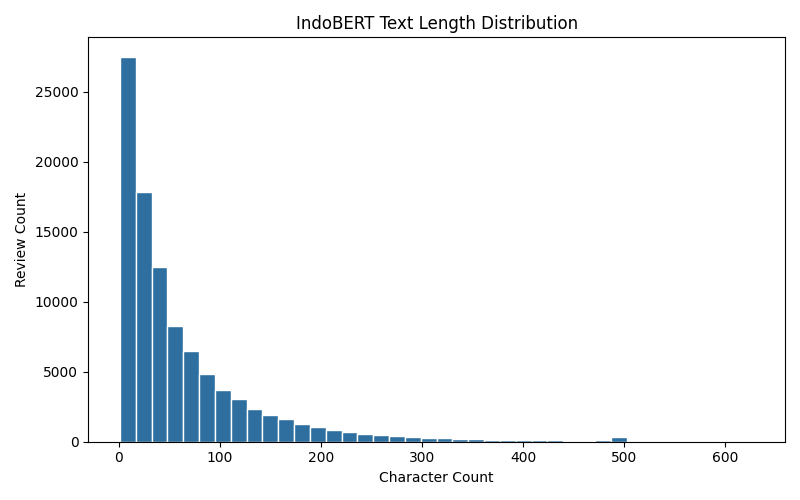
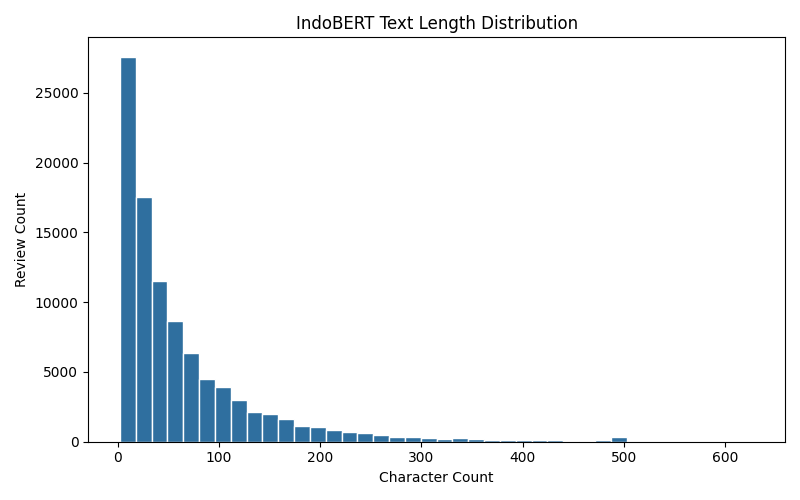
data: regenerate model datasets from canonical processed data

diff --git a/ml-service/scripts/prepare_indobert_dataset.py b/ml-service/scripts/prepare_indobert_dataset.py
@@ -21,7 +21,7 @@ LABEL_MAPPING = {
     "Neutral": 1,
     "Positive": 2,
 }
-DEFAULT_INPUT = PROJECT_ROOT / "datasets" / "processed" / "reviews_final.csv"
+DEFAULT_INPUT = PROJECT_ROOT / "datasets" / "processed" / "dataset_spotify_processed.csv"
 DEFAULT_OUTPUT_DIR = PROJECT_ROOT / "datasets" / "processed" / "indobert"
 DEFAULT_SUMMARY_OUTPUT = Path(
     PROJECT_ROOT / "datasets" / "outputs" / "eda" / "03_indobert" / "indobert_dataset_summary.json"

diff --git a/docs/methodology/data-artifact-lineage-audit.md b/docs/methodology/data-artifact-lineage-audit.md
@@ -6,7 +6,9 @@ MS-15B promotion update: 2026-06-21
 
 MS-15C preprocessing defaults update: 2026-06-21
 
-Scope: read-only inventory and lineage analysis. No dataset, script, notebook, service, frontend, Docker, model, or environment file was modified.
+MS-15D model-dataset regeneration update: 2026-06-21
+
+Original MS-15A scope: read-only inventory and lineage analysis. Later sections record the scoped MS-15B through MS-15D follow-up changes.
 
 ## 1. Executive Summary
 
@@ -19,9 +21,13 @@ MS-15B promoted `ml-service/quality_audit/reviews_final_quality_filtered.csv` in
 
 MS-15C made the preprocessing scripts reproduce those canonical files from project-root-safe defaults. `preprocess_indobert.py` writes a clearly named valid-row stage file and the first-stage noise report; `preprocess_svm.py` owns final canonical CSV/JSON output and merges both noise stages with explicit provenance. Metrics, figures, and summaries are now opt-in secondary diagnostics.
 
-The current `datasets/processed/reviews_final.csv` is not a clean source of truth despite its name. Targeted samples confirm it still contains an emoji-only row and a Morse-like row. The Morse-like row also appears in `datasets/processed/indobert/test.csv`, proving that the current IndoBERT splits were generated from the unfiltered `97,782`-row branch. `datasets/outputs/eda/03_indobert/indobert_dataset_summary.json` confirms `preprocessing_status_rows_removed: 0` and `valid_rows: 97,782`.
+The current `datasets/processed/reviews_final.csv` is not a clean source of truth despite its name. Targeted samples confirm it still contains an emoji-only row and a Morse-like row. Before MS-15D, the Morse-like row also appeared in `datasets/processed/indobert/test.csv`, proving that the old IndoBERT splits were generated from the unfiltered `97,782`-row branch.
 
-No legacy files were deleted. MS-15D should migrate dataset preparation to canonical input and regenerate model-specific datasets before any archive/removal milestone.
+MS-15D changed the IndoBERT preparation default to `dataset_spotify_processed.csv` and regenerated its train, validation, test, label mapping, EDA 03 dataset summaries, and EDA 03 figures from all `96,534` canonical rows. Full validation found no split overlap, empty text, invalid labels, non-valid preprocessing metadata, or rows rejected by the shared Morse/symbol/digit/repeated-garbage quality detector.
+
+SVM regeneration was not safe within the current preparation contract. The canonical dataset has `text_svm` but lacks `aspect_label` and `aspect_label_confidence`; the active refined label source still contains all `97,782` old-branch rows, including `1,248` IDs excluded from canonical data. The current `16,983`-row SVM dataset contains `6` noncanonical IDs. Status: `NEEDS VERIFICATION` until weak aspect labels are regenerated or otherwise verified against canonical input without changing the labeling scheme.
+
+No legacy files were deleted. No model was trained.
 
 ### Decision Summary
 
@@ -29,8 +35,8 @@ No legacy files were deleted. MS-15D should migrate dataset preparation to canon
 | --- | --- | --- |
 | Canonical clean processed dataset | `datasets/processed/dataset_spotify_processed.{csv,json}` sourced from `ml-service/quality_audit/reviews_final_quality_filtered.csv` | Confirmed by MS-15B validation |
 | Misleading noisy `final` file | `datasets/processed/reviews_final.csv` | Confirmed by targeted samples |
-| Current IndoBERT preparation input | `datasets/processed/reviews_final.csv` -> `datasets/processed/indobert/{train,validation,test}.csv` | Confirmed by defaults and generated summary |
-| Current SVM preparation input | `datasets/processed/reviews_with_aspect_labels_refined.csv` -> `datasets/processed/svm/svm_aspect_dataset.csv` | Confirmed by defaults |
+| Current IndoBERT preparation input | `datasets/processed/dataset_spotify_processed.csv` -> `datasets/processed/indobert/{train,validation,test}.csv` | Confirmed by MS-15D default, regeneration, and full split validation |
+| Current SVM preparation input | `datasets/processed/reviews_with_aspect_labels_refined.csv` -> `datasets/processed/svm/svm_aspect_dataset.csv` | `NEEDS VERIFICATION`; active input still belongs to the old aspect-labeled branch |
 | Backend review sample source | Random: `reviews_final.csv`; latest negative: refined aspect labels first | Confirmed by service code |
 | Quality-filtered branch consumer | No committed consumer of the three `*_quality_filtered.csv` files | Confirmed by repository search |
 | Frontend data source | API Gateway only; indirect dependency on backend artifacts | Confirmed by frontend service modules |
@@ -41,16 +47,16 @@ The word `final` currently means several different things:
 
 - `reviews_final.csv` means a compact preprocessing output, not a verified noise-free canonical dataset.
 - `reviews_with_aspect_labels_refined.csv` means refined weak aspect labels, but it inherits rows from `reviews_final.csv`.
-- IndoBERT `run_3_weighted_loss_lr_1e-5` is the selected historical experiment, but its current split lineage still points to the unfiltered processed branch.
+- IndoBERT `run_3_weighted_loss_lr_1e-5` is the selected historical experiment, but its recorded training lineage still points to the pre-MS-15D unfiltered splits.
 - SVM `merged_5class` is the selected taxonomy/model, but its preparation source also descends from the unfiltered branch.
 - AHP/Fuzzy AHP files with `sample_development` are pipeline-validation outputs, not final expert-judgement results.
 
 At MS-15A, the quality-filtering implementation was newer than the active processed-data contract and only produced audit outputs under `ml-service/quality_audit/`. MS-15B promoted the data; MS-15C aligned preprocessing defaults. Remaining drift is downstream:
 
-- split-preparation scripts and notebooks still name `reviews_final.csv` as the main processed input;
+- SVM aspect-label and preparation lineage still depends on `reviews_with_aspect_labels_refined.csv` from the old branch;
 - `review-service` serves samples from the noisy file;
 - backend preprocessing/sentiment summaries report the pre-filter `97,782` rows;
-- current IndoBERT splits include rows identified by the audit as noise;
+- IndoBERT splits are now canonical, but historical trained-model metrics still describe pre-MS-15D data;
 - frontend tables ask review sample APIs for fields that the API schema does not return.
 
 ## 3. Dataset Artifact Inventory
@@ -97,14 +103,14 @@ Rows below group files only when every named file has the same lineage classific
 | `datasets/processed/reviews_preprocessed_indobert.csv` | processed intermediate | Older IndoBERT text-cleaning output | Unfiltered legacy branch; sampled audit-dropped IDs remain present | W `preprocess_indobert.py`; R `preprocess_svm.py`; notebook 02 | LEGACY |
 | `datasets/processed/reviews_preprocessed_indobert.json` | processed duplicate | Large JSON serialization of an older IndoBERT preprocessing result | No committed reader found; duplicates CSV-era content and may contain the same noise | NONE | ARCHIVE LATER |
 | `datasets/processed/reviews_preprocessed_svm.csv` | processed intermediate | Older SVM text-cleaning output | Unfiltered legacy branch; emoji/noise rows remain | W `preprocess_svm.py`; no independent downstream reader found outside notebook lineage | LEGACY |
-| `datasets/processed/reviews_final.csv` | processed output | Compact combined sentiment preprocessing output | Misleading name; confirmed emoji-only and Morse-like rows. No quality metadata columns | Historical W `preprocess_svm.py`; still R by `prepare_indobert_dataset.py`, `train_indobert.py` metadata, notebook 02, `review-service` | LEGACY; NOT SAFE TO DELETE |
+| `datasets/processed/reviews_final.csv` | processed output | Compact combined sentiment preprocessing output | Misleading name; confirmed emoji-only and Morse-like rows. No quality metadata columns | Historical W `preprocess_svm.py`; still R by `train_indobert.py` metadata, notebook 02, `review-service`; no longer the IndoBERT preparation default | LEGACY; NOT SAFE TO DELETE |
 | `datasets/processed/reviews_with_aspect_labels.csv` | processed output | Earlier weak aspect-label output | Derived from noisy `reviews_final.csv`; older than refined output | API fallback for latest negatives; no current writer command found | LEGACY; NOT SAFE TO DELETE |
-| `datasets/processed/reviews_with_aspect_labels_refined.csv` | processed output | Refined weak aspect labels and confidence | Active SVM preparation source, but inherits unfiltered upstream rows | W `label_aspects_by_keywords.py`; R `prepare_svm_aspect_dataset.py`; preferred API latest-negative source | NEEDS DECISION |
-| `datasets/processed/indobert/train.csv` | split | IndoBERT train split | Active derived split; generated from `97,782` unfiltered rows; a quality-audit-dropped ID is present | W `prepare_indobert_dataset.py`; R `train_indobert.py`, Colab notebooks | NEEDS DECISION |
-| `datasets/processed/indobert/validation.csv` | split | IndoBERT validation split | Active derived split; same unfiltered lineage | W `prepare_indobert_dataset.py`; R `train_indobert.py`, Colab notebooks | NEEDS DECISION |
-| `datasets/processed/indobert/test.csv` | split | IndoBERT test split | Active derived split; confirmed to contain the Morse-like ID `1b2b73e6-...` | W `prepare_indobert_dataset.py`; R `train_indobert.py`, Colab notebooks | NEEDS DECISION |
-| `datasets/processed/indobert/label_mapping.json` | split metadata | Sentiment label-to-ID mapping | Valid derived metadata; must be regenerated/versioned with new splits | W `prepare_indobert_dataset.py`; R training/Colab/export | KEEP |
-| `datasets/processed/svm/svm_aspect_dataset.csv` | processed model dataset | Filtered weak-label aspect dataset (`16,983` rows in current summary) | Active derived dataset from old refined labels; noise impact is inherited and needs regeneration | W `prepare_svm_aspect_dataset.py`; R `train_svm_aspect_classifier.py` | NEEDS DECISION |
+| `datasets/processed/reviews_with_aspect_labels_refined.csv` | processed output | Refined weak aspect labels and confidence | Active SVM preparation source, but inherits unfiltered upstream rows | W `label_aspects_by_keywords.py`; R `prepare_svm_aspect_dataset.py`; preferred API latest-negative source | NEEDS VERIFICATION |
+| `datasets/processed/indobert/train.csv` | split | IndoBERT train split (`67,573` rows) | Regenerated in MS-15D from canonical input; unique IDs, valid labels, and no shared-quality-filter rejection | W `prepare_indobert_dataset.py`; R `train_indobert.py`, Colab notebooks | CURRENT; REGENERATED MS-15D |
+| `datasets/processed/indobert/validation.csv` | split | IndoBERT validation split (`14,480` rows) | Regenerated in MS-15D from canonical input; disjoint from train/test | W `prepare_indobert_dataset.py`; R `train_indobert.py`, Colab notebooks | CURRENT; REGENERATED MS-15D |
+| `datasets/processed/indobert/test.csv` | split | IndoBERT test split (`14,481` rows) | Regenerated in MS-15D from canonical input; old Morse-like ID absent | W `prepare_indobert_dataset.py`; R `train_indobert.py`, Colab notebooks | CURRENT; REGENERATED MS-15D |
+| `datasets/processed/indobert/label_mapping.json` | split metadata | Sentiment label-to-ID mapping | Regenerated with the MS-15D splits: Negative `0`, Neutral `1`, Positive `2` | W `prepare_indobert_dataset.py`; R training/Colab/export | CURRENT; REGENERATED MS-15D |
+| `datasets/processed/svm/svm_aspect_dataset.csv` | processed model dataset | Filtered weak-label aspect dataset (`16,983` rows in current summary) | Not regenerated in MS-15D; old refined-label lineage remains and `6` IDs are not canonical | W `prepare_svm_aspect_dataset.py`; R `train_svm_aspect_classifier.py` | NEEDS VERIFICATION |
 
 ### 3.4 Quality-Audit Artifacts
 
@@ -151,7 +157,7 @@ Rows below group files only when every named file has the same lineage classific
 
 | Path(s) | Type | Stage and role | Canonicality / noise | References | Status |
 | --- | --- | --- | --- | --- | --- |
-| `datasets/outputs/eda/03_indobert/indobert_dataset_summary.json`<br>`datasets/outputs/eda/03_indobert/indobert_label_distribution.csv`<br>`datasets/outputs/eda/03_indobert/indobert_label_distribution.json`<br>`datasets/outputs/eda/03_indobert/indobert_split_distribution.csv`<br>`datasets/outputs/eda/03_indobert/indobert_split_distribution.json`<br>`datasets/outputs/eda/03_indobert/indobert_text_length_summary.json` | output / split metadata | Current split-generation summary | Confirms unfiltered `97,782`-row source and zero status filtering | W `prepare_indobert_dataset.py`; service availability/reporting | NEEDS DECISION |
+| `datasets/outputs/eda/03_indobert/indobert_dataset_summary.json`<br>`datasets/outputs/eda/03_indobert/indobert_label_distribution.csv`<br>`datasets/outputs/eda/03_indobert/indobert_label_distribution.json`<br>`datasets/outputs/eda/03_indobert/indobert_split_distribution.csv`<br>`datasets/outputs/eda/03_indobert/indobert_split_distribution.json`<br>`datasets/outputs/eda/03_indobert/indobert_text_length_summary.json` | output / split metadata | Current split-generation summary | Regenerated in MS-15D from all `96,534` canonical valid rows; no row removed during preparation | W `prepare_indobert_dataset.py`; service availability/reporting | CURRENT; REGENERATED MS-15D |
 | `datasets/outputs/eda/03_indobert/run_1_baseline/indobert_dataset_summary.json`<br>`datasets/outputs/eda/03_indobert/run_1_baseline/indobert_label_distribution.csv`<br>`datasets/outputs/eda/03_indobert/run_1_baseline/indobert_label_distribution.json`<br>`datasets/outputs/eda/03_indobert/run_1_baseline/indobert_split_distribution.csv`<br>`datasets/outputs/eda/03_indobert/run_1_baseline/indobert_split_distribution.json`<br>`datasets/outputs/eda/03_indobert/run_1_baseline/indobert_text_length_summary.json` | legacy evaluation metadata | Run 1 dataset snapshot | Historical duplicate; pre-quality-filter lineage | Notebook/report fallback | ARCHIVE LATER |
 | `datasets/outputs/eda/03_indobert/run_1_baseline/indobert_training_metrics.json`<br>`datasets/outputs/eda/03_indobert/run_1_baseline/indobert_classification_report.json`<br>`datasets/outputs/eda/03_indobert/run_1_baseline/indobert_confusion_matrix.csv`<br>`datasets/outputs/eda/03_indobert/run_1_baseline/indobert_test_predictions.csv` | evaluation output | Baseline experiment metrics and predictions | Thesis evidence; metrics inherit historical data quality | API sentiment/report fallback; evaluation docs | KEEP |
 | `datasets/outputs/eda/03_indobert/run_2_weighted_loss/indobert_class_weights.json`<br>`datasets/outputs/eda/03_indobert/run_2_weighted_loss/indobert_classification_report.json`<br>`datasets/outputs/eda/03_indobert/run_2_weighted_loss/indobert_confusion_matrix.csv`<br>`datasets/outputs/eda/03_indobert/run_2_weighted_loss/indobert_error_analysis.csv`<br>`datasets/outputs/eda/03_indobert/run_2_weighted_loss/indobert_run_comparison.csv`<br>`datasets/outputs/eda/03_indobert/run_2_weighted_loss/indobert_run_comparison.json`<br>`datasets/outputs/eda/03_indobert/run_2_weighted_loss/indobert_test_predictions.csv`<br>`datasets/outputs/eda/03_indobert/run_2_weighted_loss/indobert_training_history.csv`<br>`datasets/outputs/eda/03_indobert/run_2_weighted_loss/indobert_training_history.json`<br>`datasets/outputs/eda/03_indobert/run_2_weighted_loss/indobert_training_metrics.json` | evaluation output | Historical weighted-loss experiment | Thesis evidence; not selected; pre-quality-filter metrics | API sentiment/report, notebooks, consolidated evaluation | KEEP; ARCHIVE LATER only after thesis evidence policy |
@@ -162,7 +168,7 @@ Rows below group files only when every named file has the same lineage classific
 
 | Path(s) | Type | Stage and role | Canonicality / noise | References | Status |
 | --- | --- | --- | --- | --- | --- |
-| `datasets/outputs/eda/04_svm/svm_aspect_dataset_summary.json`<br>`datasets/outputs/eda/04_svm/svm_aspect_label_distribution.csv`<br>`datasets/outputs/eda/04_svm/svm_aspect_label_distribution.json`<br>`datasets/outputs/eda/04_svm/svm_aspect_by_sentiment_distribution.csv`<br>`datasets/outputs/eda/04_svm/svm_aspect_by_sentiment_distribution.json`<br>`datasets/outputs/eda/04_svm/svm_aspect_confidence_distribution.csv`<br>`datasets/outputs/eda/04_svm/svm_aspect_confidence_distribution.json` | output / dataset metadata | Current weak-label SVM dataset summary/distributions | Based on `97,782` unfiltered upstream rows before narrowing to `16,983` | W `prepare_svm_aspect_dataset.py`; API `aspect-service` | NEEDS DECISION |
+| `datasets/outputs/eda/04_svm/svm_aspect_dataset_summary.json`<br>`datasets/outputs/eda/04_svm/svm_aspect_label_distribution.csv`<br>`datasets/outputs/eda/04_svm/svm_aspect_label_distribution.json`<br>`datasets/outputs/eda/04_svm/svm_aspect_by_sentiment_distribution.csv`<br>`datasets/outputs/eda/04_svm/svm_aspect_by_sentiment_distribution.json`<br>`datasets/outputs/eda/04_svm/svm_aspect_confidence_distribution.csv`<br>`datasets/outputs/eda/04_svm/svm_aspect_confidence_distribution.json` | output / dataset metadata | Current weak-label SVM dataset summary/distributions | Not regenerated in MS-15D; based on `97,782` old-branch rows before narrowing to `16,983` | W `prepare_svm_aspect_dataset.py`; API `aspect-service` | NEEDS VERIFICATION |
 | `datasets/outputs/eda/04_svm/final_aspect_taxonomy_for_ahp.csv`<br>`datasets/outputs/eda/04_svm/final_aspect_taxonomy_for_ahp.json` | output / evaluation | Five-class merged taxonomy for AHP/Fuzzy AHP | Active criteria evidence; indirectly derived from old weak labels | API `aspect-service`, `report-service` | KEEP; REVALIDATE LATER |
 | `datasets/outputs/eda/04_svm/svm_artifact_manifest.json` | output metadata | SVM artifact manifest | Metadata only; no dataset rows | Service/docs | KEEP |
 | `datasets/outputs/eda/04_svm/svm_final_model_selection.csv`<br>`datasets/outputs/eda/04_svm/svm_final_model_selection.json`<br>`datasets/outputs/eda/04_svm/svm_scenario_comparison.csv`<br>`datasets/outputs/eda/04_svm/svm_scenario_comparison.json`<br>`datasets/outputs/eda/04_svm/svm_training_summary.json` | evaluation output | Original-vs-merged scenario comparison and selected model | Active reporting evidence; metrics should be superseded only after clean-data rerun | API `aspect-service`, `report-service`, evaluation frontend | KEEP |
@@ -192,9 +198,9 @@ Rows below group files only when every named file has the same lineage classific
 | `datasets/raw/reviews_raw_labeled.csv`, `data_acquisition_summary.json`, EDA 01 | `label_by_rating.py` | `relabel_by_keywords.py`; `review-service`; notebooks | Labeled raw dataset is the stable relabeling input. |
 | `reviews_relabelled.csv`, relabeling summaries | `relabel_by_keywords.py` | `preprocess_indobert.py`; notebook 02 | Relabeling is before quality filtering, so noise here is expected. |
 | `dataset_spotify_indobert_stage.csv` and canonical noise reports | `preprocess_indobert.py` | `preprocess_svm.py` | Root-safe MS-15C intermediate; contains only `96,575` IndoBERT-stage-valid rows. |
-| `dataset_spotify_processed.{csv,json}` and canonical noise reports | `preprocess_svm.py` | No migrated downstream reader yet | Root-safe canonical output defaults; valid and dropped rows remain separated. |
+| `dataset_spotify_processed.{csv,json}` and canonical noise reports | `preprocess_svm.py` | `prepare_indobert_dataset.py` reads canonical CSV after MS-15D | Root-safe canonical output defaults; valid and dropped rows remain separated. |
 | `reviews_with_aspect_labels_refined.csv` | `label_aspects_by_keywords.py` | `prepare_svm_aspect_dataset.py`; review API latest-negative endpoint | Active SVM/review dependency blocks deletion. |
-| `datasets/processed/indobert/*` and top-level EDA 03 summaries | `prepare_indobert_dataset.py` | `train_indobert.py`; `prepare_colab_indobert_bundle.py`; Colab notebooks | Current splits were built from unfiltered `reviews_final.csv`. |
+| `datasets/processed/indobert/*` and top-level EDA 03 summaries | `prepare_indobert_dataset.py` | `train_indobert.py`; `prepare_colab_indobert_bundle.py`; Colab notebooks | MS-15D regenerated current splits and summaries from canonical `dataset_spotify_processed.csv`. |
 | IndoBERT run folders | `train_indobert.py` and Colab export workflow | sentiment/report services; model evaluation; notebooks | Metrics are active reporting inputs but should be versioned as historical after a clean-data rerun. |
 | `datasets/processed/svm/svm_aspect_dataset.csv`, EDA 04 dataset summaries | `prepare_svm_aspect_dataset.py` | `train_svm_aspect_classifier.py` | Current SVM dataset descends from unfiltered refined weak labels. |
 | EDA 04 experiment outputs | `train_svm_aspect_classifier.py` | aspect/report services; consolidated evaluation | Selected merged model remains active but data lineage is pre-promotion. |
@@ -255,11 +261,11 @@ The frontend reads no CSV/JSON directly. It depends on API fields derived from a
 | `ml-service/notebooks/02_preprocessing.ipynb` | Documents only the old unfiltered processed chain. |
 | `docs/microservices/review-service-extraction.md` | Calls `reviews_final.csv` the preferred review source without quality caveat. |
 | `docs/microservices/api-contract.md` | Exposes `reviews_final` availability and a ranking `source_file`; does not define canonical processed lineage. |
-| `docs/ml/indobert-artifact-export.md` | Correctly says splits must be regenerated after quality filtering, but current split files remain old. |
+| `docs/ml/indobert-artifact-export.md` | Correctly treats existing run_3 model metrics as historical; MS-15D regenerated the input splits but did not retrain the model. |
 | `docs/microservices/repository-hygiene-audit.md` | Classifies `quality_audit/` as research evidence, not as a candidate source requiring promotion. |
 | `docs/microservices/architecture.md` | Defines artifact policy but not the canonical processed filename or lineage version. |
 
-No audited document currently declares a single canonical processed dataset and its derivation contract.
+At MS-15A, no audited document declared a single canonical processed dataset and its derivation contract. MS-15B through MS-15D updates in this document now record that contract and the current migration status.
 
 ## 5. Current Pipeline Lineage Map
 
@@ -271,23 +277,22 @@ datasets/raw/reviews_rating_{1..5}_raw.csv
   -> datasets/raw/reviews_raw_labeled.csv
   -> relabel_by_keywords.py
   -> datasets/processed/reviews_relabelled.csv                 [noise still expected]
-  -> preprocess_indobert.py / older committed output
-  -> datasets/processed/reviews_preprocessed_indobert.csv      [unfiltered legacy]
-  -> preprocess_svm.py / older committed output
-  -> datasets/processed/reviews_preprocessed_svm.csv
-  -> datasets/processed/reviews_final.csv                      [confirmed noisy]
-     -> prepare_indobert_dataset.py
-     -> datasets/processed/indobert/{train,validation,test}.csv [confirmed noisy lineage]
-     -> train_indobert.py / Colab
-     -> datasets/outputs/eda/03_indobert/run_*/
+  -> preprocess_indobert.py
+  -> datasets/processed/dataset_spotify_indobert_stage.csv
+  -> preprocess_svm.py
+  -> datasets/processed/dataset_spotify_processed.csv          [96,534 canonical valid]
+  -> prepare_indobert_dataset.py
+  -> datasets/processed/indobert/{train,validation,test}.csv   [regenerated MS-15D]
+  -> train_indobert.py / Colab                                 [not run in MS-15D]
+  -> datasets/outputs/eda/03_indobert/run_*/                   [historical model runs]
 
-datasets/processed/reviews_final.csv
+datasets/processed/reviews_final.csv                           [confirmed noisy legacy]
   -> label_aspects_by_keywords.py
-  -> datasets/processed/reviews_with_aspect_labels_refined.csv
+  -> datasets/processed/reviews_with_aspect_labels_refined.csv [old branch; NEEDS VERIFICATION]
   -> prepare_svm_aspect_dataset.py
-  -> datasets/processed/svm/svm_aspect_dataset.csv
+  -> datasets/processed/svm/svm_aspect_dataset.csv             [not regenerated MS-15D]
   -> train_svm_aspect_classifier.py
-  -> datasets/outputs/eda/04_svm/
+  -> datasets/outputs/eda/04_svm/                              [historical/current old lineage]
 
 EDA 01-05 + EDA 08
   -> domain service summary APIs
@@ -307,15 +312,15 @@ datasets/processed/reviews_relabelled.csv
   +  datasets/processed/dataset_spotify_noise_report.{csv,json} [1,248 cumulative dropped]
 ```
 
-The old `ml-service/quality_audit/` files remain lineage evidence, not default final outputs. Downstream preparation and runtime readers are intentionally unchanged until MS-15D/MS-15E.
+The old `ml-service/quality_audit/` files remain lineage evidence, not default final outputs. MS-15D migrated only IndoBERT preparation. SVM aspect-label preparation and runtime readers remain unchanged pending verified follow-up work.
 
 ### 5.3 Expected Versus Actual Gap
 
 | Expected step | Actual repository state | Gap |
 | --- | --- | --- |
 | Quality filtering produces canonical processed data | Scripts now reproduce `dataset_spotify_processed.{csv,json}` and canonical noise reports | Resolved in MS-15B/MS-15C |
-| IndoBERT splits derive from canonical valid data | Splits derive from noisy `reviews_final.csv` | Regeneration missing |
-| SVM labels/dataset derive from canonical valid data | Refined labels and SVM dataset derive from old branch | Regeneration missing |
+| IndoBERT splits derive from canonical valid data | All `96,534` canonical rows are partitioned into regenerated train/validation/test splits | Resolved in MS-15D |
+| SVM labels/dataset derive from canonical valid data | Canonical input lacks weak-label columns; refined labels and SVM dataset still derive from old branch | `NEEDS VERIFICATION` |
 | Backend preprocessing summary reports valid/dropped counts | Backend reads old EDA 02 summary only | API contract missing quality fields |
 | Frontend sample tables receive stage-specific rows | Frontend reuses narrow generic review samples | API sample contracts missing |
 
@@ -330,8 +335,8 @@ The old `ml-service/quality_audit/` files remain lineage evidence, not default f
 | `preprocessing_quality_summary.json` | `96,575` input; `96,534` valid; 41 additional drops |
 | `reviews_final.csv` targeted sample | Emoji-only row `f4a4d23f-...` remains |
 | `reviews_final.csv` targeted sample | Morse-like row `1b2b73e6-...` remains |
-| Current IndoBERT test split | Morse-like row `1b2b73e6-...` remains |
-| Current IndoBERT train split | SVM-stage-dropped stylized-text row `96e6b8f5-...` remains |
+| MS-15D IndoBERT splits | All `96,534` canonical IDs present exactly once; zero overlap, empty text, invalid label mapping, or quality-detector rejection |
+| Old noisy IndoBERT IDs | Morse-like `1b2b73e6-...` and SVM-stage-dropped `96e6b8f5-...` are absent after regeneration |
 | `reviews_final_quality_filtered.csv` | Known dropped IDs absent; sampled rows show `preprocessing_status=valid` and `drop_reason=valid` |
 
 ### 6.2 Interpretation
@@ -415,7 +420,7 @@ The common `"-"` output is usually not a rendering defect. It is produced when p
 | `datasets/processed/svm/test.csv` | Derived model-specific test split. Add validation split only if the training contract requires it. |
 | `datasets/processed/svm/label_mapping.json` | Versioned aspect-label mapping for the derived split. |
 
-All four proposed `dataset_spotify_*` files now exist after MS-15B. The three proposed SVM split/mapping files do not yet exist and remain MS-15D work.
+All four proposed `dataset_spotify_*` files exist after MS-15B, and the IndoBERT files were regenerated in MS-15D. The three proposed SVM split/mapping files do not exist; creating them is deferred until canonical weak-label lineage is verified.
 
 ### 10.2 Naming and Lineage Rules
 
@@ -433,7 +438,7 @@ All four proposed `dataset_spotify_*` files now exist after MS-15B. The three pr
 | --- | --- | --- | --- | --- |
 | MS-15B | Verify and promote the canonical processed dataset plus noise reports. | `datasets/processed/dataset_spotify_*`; quality-audit summaries; optional manifest; docs | Accidental row loss, CSV/JSON divergence, provenance loss | Focused preprocessing tests; schema/count/hash comparison; targeted known-noise/known-valid ID checks; `git diff --stat` |
 | MS-15C | Make preprocessing scripts write canonical paths deterministically and remove ambiguous `final` defaults. | `preprocess_indobert.py`, `preprocess_svm.py`, shared quality utility, notebook 02, tests | Breaking CLI compatibility; silently changing thresholds | `python -m pytest ml-service/tests` with workspace basetemp; script `--help`; dry/small fixture run |
-| MS-15D | Regenerate IndoBERT and SVM derived datasets from the canonical dataset; do not retrain unless separately approved. | `prepare_indobert_dataset.py`, `prepare_svm_aspect_dataset.py`, aspect-label outputs, `datasets/processed/indobert/`, `datasets/processed/svm/`, EDA 03/04 dataset summaries | Split drift, label distribution drift, weak-label changes | Split overlap checks; count/distribution checks; known-noise absence; deterministic seed rerun; dataset prep tests |
+| MS-15D | Regenerate IndoBERT from canonical data; regenerate SVM only if the weak-label lineage is safe without assumption changes. | `prepare_indobert_dataset.py`, `datasets/processed/indobert/`, EDA 03 summaries/figures, lineage audit; SVM files only if verified | Split drift, label distribution drift, weak-label changes | Split overlap checks; count/distribution checks; known-noise absence; deterministic seed rerun; SVM schema/ID audit |
 | MS-15E | Stabilize backend research-artifact API contracts and add stage-specific sample rows. | review/sentiment/aspect/report schemas/services/routers, API contract docs, gateway tests | Frontend contract breakage; leaking internal paths | Service pytest suites; schema snapshots; `rg` for `source_file`, `file_exists`, `dir_exists`; API sample checks |
 | MS-15F | Align frontend tables with stabilized API fields. | frontend services/types/pages for Dashboard, Dataset, Scraping, Preprocessing, Sentiment, Aspect, Evaluation, AHP | Replacing valid empty states with fabricated values | `npm run lint`; `npm run build`; page-level gateway fixtures; browser checks |
 | MS-15G | Merge Uji Ulasan into Analisis Sentimen and Scraping into Dataset if the product-flow decision remains valid. | navigation/routes/pages/components/services and frontend docs | Route regressions; mixing research snapshots with runtime inference | `npm run lint`; `npm run build`; route/navigation checks; manual workflow smoke test |
@@ -447,7 +452,7 @@ All four proposed `dataset_spotify_*` files now exist after MS-15B. The three pr
 | --- | --- | --- | --- |
 | Promoting the wrong quality file as canonical | Medium | High | Verify schema, counts, hashes, known-noise absence, and generation parameters first. |
 | Current model metrics are presented as clean-data metrics | High | High | Label historical metrics and regenerate after canonical split preparation/retraining approval. |
-| Deleting `reviews_final.csv` breaks review APIs and IndoBERT prep | High | High | Migrate readers first; retain compatibility only temporarily. |
+| Deleting `reviews_final.csv` breaks review APIs and the current aspect-label branch | High | High | Migrate remaining readers first; retain compatibility only temporarily. |
 | Regenerated weak aspect labels change SVM class distribution | High | Medium | Version old/new distributions and rerun selection methodology. |
 | JSON canonical file becomes an unnecessary 70+ MB duplicate | Medium | Medium | Define its consumer and serialization contract; if required by thesis, generate deterministically and compress/archive appropriately. |
 | API cleanup leaks or removes fields unexpectedly | Medium | High | Version contracts and add service/gateway schema tests. |
@@ -460,9 +465,9 @@ All four proposed `dataset_spotify_*` files now exist after MS-15B. The three pr
 | File/family | Reason |
 | --- | --- |
 | All `datasets/raw/` artifacts | Immutable acquisition evidence and active summary/fallback inputs. |
-| `datasets/processed/reviews_final.csv` | Active reader for IndoBERT prep and random review API despite being noisy. |
+| `datasets/processed/reviews_final.csv` | Active random-review API and aspect-label lineage input despite being noisy; no longer the IndoBERT preparation default. |
 | `reviews_with_aspect_labels.csv` and `reviews_with_aspect_labels_refined.csv` | Active latest-negative fallback/preferred source; refined file feeds SVM preparation. |
-| `datasets/processed/indobert/*` | Active training/Colab inputs until regenerated. |
+| `datasets/processed/indobert/*` | Regenerated canonical training/Colab inputs; retain as active derived artifacts. |
 | `datasets/processed/svm/svm_aspect_dataset.csv` | Active SVM training input. |
 | `ml-service/quality_audit/*` | Only current evidence of filtering behavior and canonical candidate data. |
 | EDA 01-05 summaries | Active backend/API/frontend dependencies. |
@@ -473,9 +478,9 @@ All four proposed `dataset_spotify_*` files now exist after MS-15B. The three pr
 
 ## 14. Immediate Next Step Recommendation
 
-Proceed with MS-15D only: point model-specific dataset preparation at canonical processed input, regenerate deterministic IndoBERT/SVM datasets, and validate split isolation and noise absence. Do not retrain models unless separately approved.
+Keep the MS-15D IndoBERT splits as current canonical derived inputs. Do not present historical run_3 metrics as clean-data metrics; retraining remains a separate approval.
 
-Current classification: `datasets/processed/dataset_spotify_processed.{csv,json}` is `CANONICAL`; `ml-service/quality_audit/reviews_final_quality_filtered.csv` is `KEEP AS LINEAGE SOURCE`; `datasets/processed/reviews_final.csv` is `LEGACY / NOT SAFE TO DELETE`; current IndoBERT/SVM derived datasets are `NEEDS DECISION / REGENERATE`.
+Before regenerating SVM, establish one reviewed canonical weak-label step that consumes `dataset_spotify_processed.csv`, preserves the existing seven-label weak taxonomy and confidence rules, and produces label/distribution evidence without copying unverified rows from the legacy branch. Current classification: IndoBERT derived dataset is `CURRENT / REGENERATED MS-15D`; SVM derived dataset is `NEEDS VERIFICATION`.
 
 ## 15. MS-15B Canonical Promotion Result
 
@@ -545,4 +550,45 @@ Fresh full-run validation confirmed:
 - deterministic LF normalization for embedded text line endings preserves the MS-15B canonical hashes;
 - legacy files were not renamed, overwritten, or deleted.
 
-Remaining old references are intentional: `prepare_indobert_dataset.py`, aspect-label/SVM preparation, notebooks, and backend services still consume legacy files. Their migration belongs to MS-15D and MS-15E.
+Remaining old references are intentional: aspect-label/SVM preparation, notebooks, and backend services still consume legacy files. IndoBERT preparation migrated in MS-15D; the remaining reader migration belongs to verified SVM follow-up work and MS-15E.
+
+## 17. MS-15D Model Dataset Regeneration Result
+
+### 17.1 IndoBERT Regeneration
+
+`prepare_indobert_dataset.py` now defaults to `datasets/processed/dataset_spotify_processed.csv`. Running it from the repository root regenerated only the dataset-preparation artifacts; no training or model export ran.
+
+| Check | Result |
+| --- | --- |
+| Canonical input rows | `96,534` |
+| Prepared rows | `96,534`; zero status, label, or empty-text removals |
+| Train split | `67,573` rows: Negative `27,590`, Neutral `12,099`, Positive `27,884` |
+| Validation split | `14,480` rows: Negative `5,912`, Neutral `2,593`, Positive `5,975` |
+| Test split | `14,481` rows: Negative `5,913`, Neutral `2,593`, Positive `5,975` |
+| Label mapping | Negative `0`, Neutral `1`, Positive `2` |
+| ID coverage | `96,534` unique IDs; exact canonical ID set; zero cross-split overlap |
+| Text quality | Zero empty `text_indobert`; zero shared-detector rejections, including Morse-like and symbol-heavy text |
+| Metadata | Zero non-`valid` preprocessing statuses or drop reasons |
+
+Regenerated outputs:
+
+- `datasets/processed/indobert/{train,validation,test}.csv`
+- `datasets/processed/indobert/label_mapping.json`
+- top-level `datasets/outputs/eda/03_indobert/indobert_*` dataset summaries/distributions
+- top-level `docs/figures/03_indobert/indobert_*` dataset figures
+
+Historical run folders under EDA 03 and their model figures were not regenerated because MS-15D did not train or evaluate IndoBERT.
+
+### 17.2 SVM Audit and Blocker
+
+Status: `NEEDS VERIFICATION`. SVM preparation was not run and no SVM derived artifact was changed.
+
+Exact blockers:
+
+1. `prepare_svm_aspect_dataset.py` requires `text_svm`, `aspect_label`, and `aspect_label_confidence`. Canonical input contains `text_svm` but not the two weak-label columns, so direct canonical input violates the script contract.
+2. The default input remains `reviews_with_aspect_labels_refined.csv`, which has `97,782` old-branch rows. It contains all canonical IDs plus `1,248` IDs excluded by canonical quality filtering.
+3. The current `16,983`-row SVM dataset contains `6` IDs absent from canonical data.
+4. Shared canonical/refined IDs have matching `text_svm` and `final_sentiment`, but that does not establish a canonical weak-label artifact or prove that copying labels from the old branch is the approved reproducible lineage.
+5. Regenerating the weak-label source would also affect EDA 02 aspect-label outputs and must be reviewed as an explicit canonical label-generation step before EDA 04/SVM regeneration.
+
+No label scheme was changed or inferred. The existing SVM dataset, EDA 04 summaries, and SVM figures remain historical/current old-lineage evidence until this blocker is resolved.